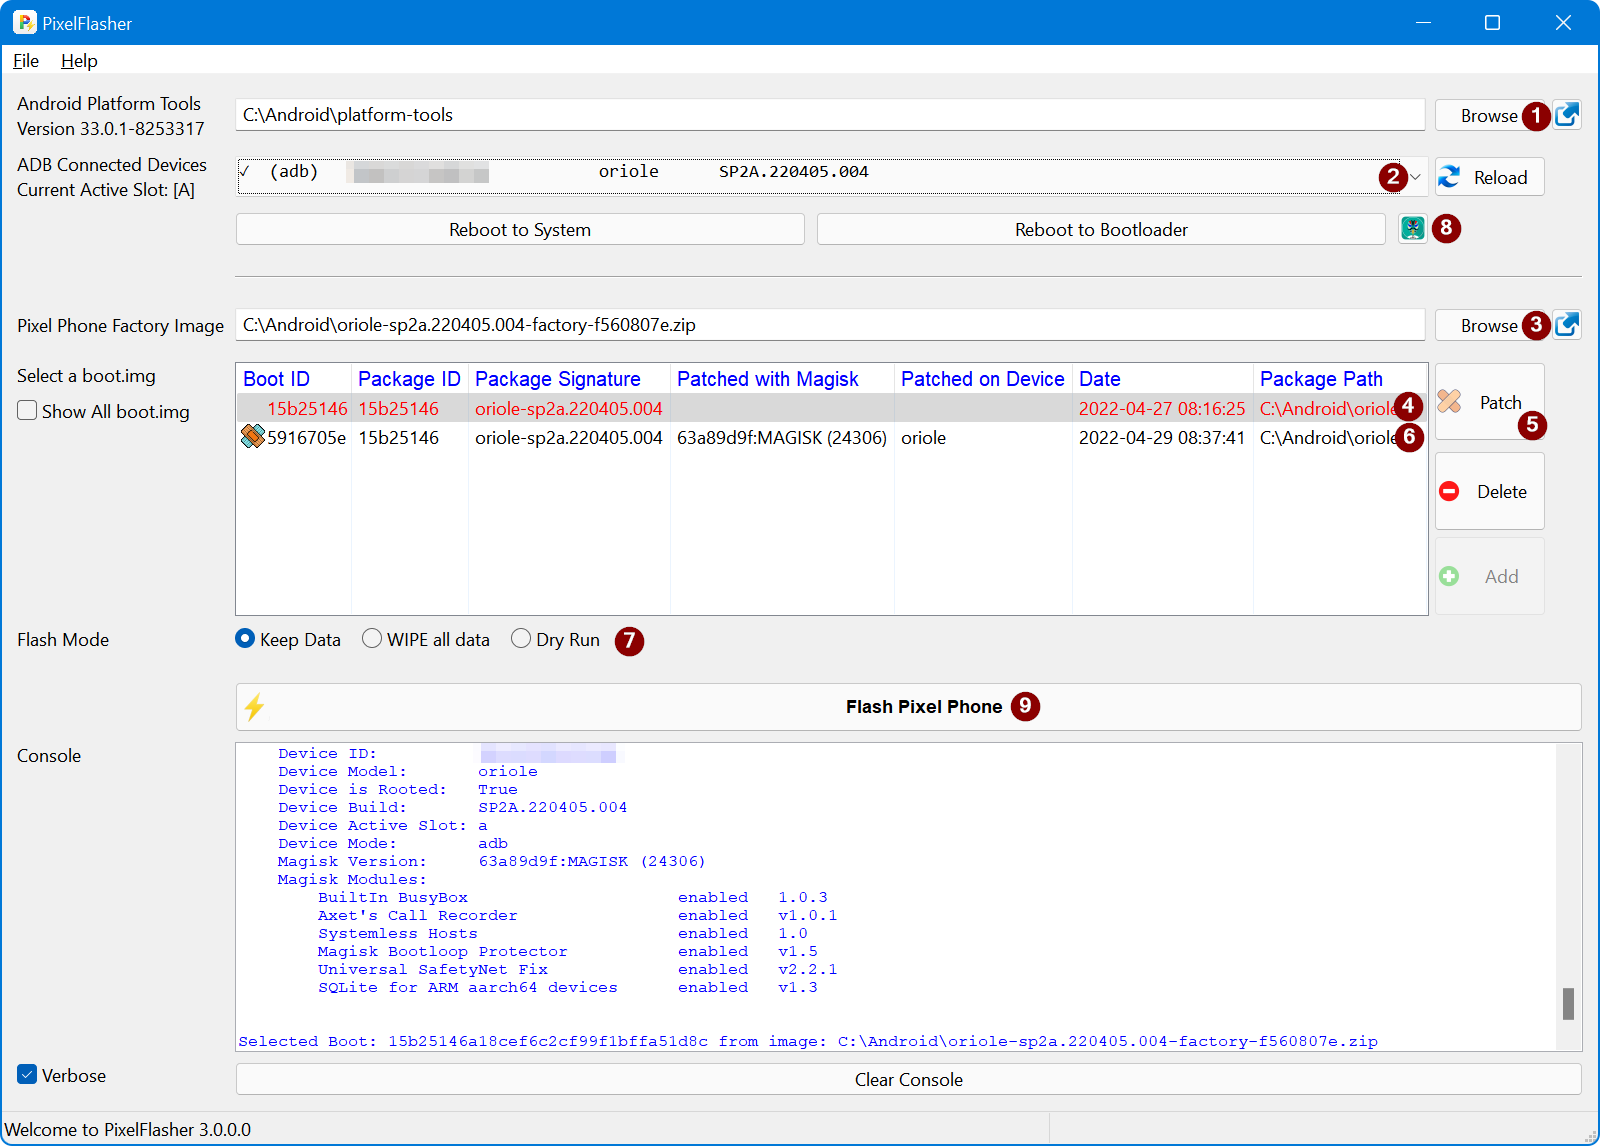
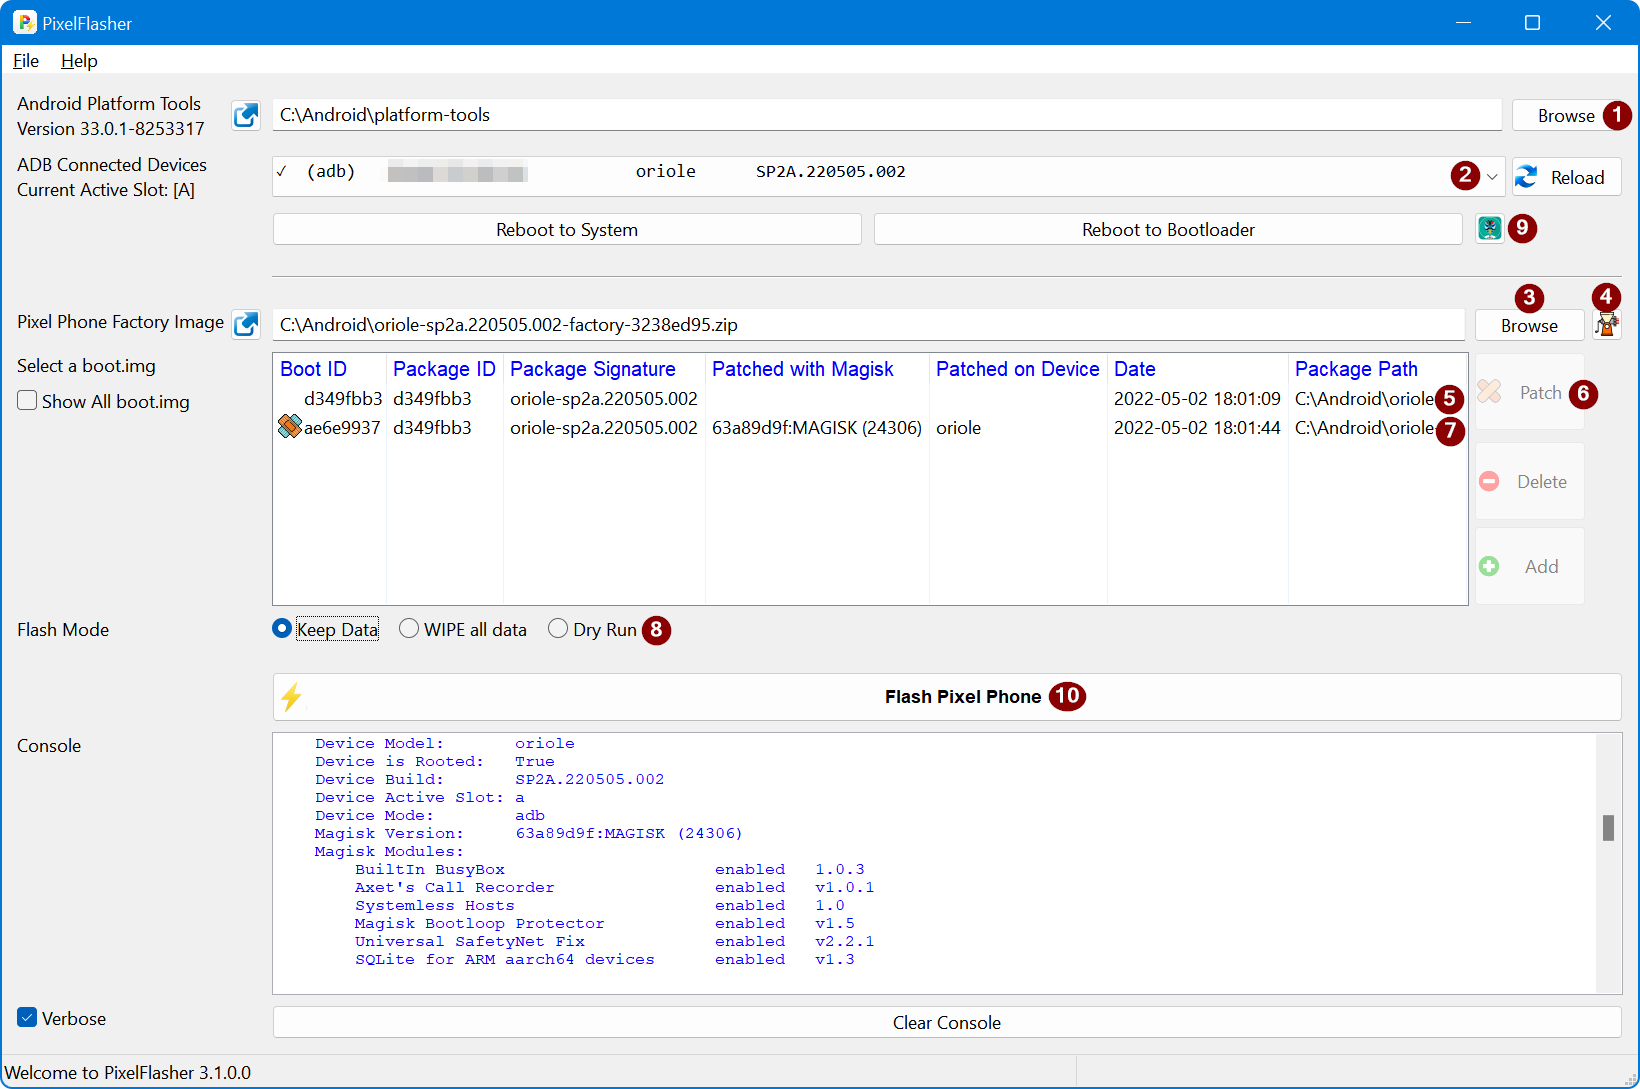
Update Readme

diff --git a/modules.py b/modules.py
@@ -1129,9 +1129,7 @@ def flash_phone(self):
         data += f"{add_echo}{get_fastboot()} -s {device.id} reboot bootloader\n"
         data += sleep_line
         data += f"{add_echo}{get_fastboot()} -s {device.id} {fastboot_options} flash boot pf_boot.img\n"
-
-        if self.config.flash_mode == 'dryRun':
-            data += f"{get_fastboot()} -s {device.id} reboot\n"
+        data += f"{get_fastboot()} -s {device.id} reboot\n"
 
         fin = open(dest, "wt")
         fin.write(data)

diff --git a/README.md b/README.md
@@ -153,16 +153,17 @@ The following information about the connected device is displayed.
     - (4th field) Device hardware.
     - (5th field) Current running firmware (in fastboot mode current firmware cannot be determined).
 3. Next select the factory image, the application will recognize the phone model from the image name.  
-PixelFlasher will extract `boot.img` file from the factory image and populate it in the list below (4).  
 You can download factory images by clicking the ![Image of link](/images/open-link-16.png) next to it.
-4. Select `boot.img` from the list, the selected `boot.img` can be patched (5), or flashed (9).
-5. Optional: Select this option if you want to patch the `boot.img` with Magisk. Magisk must already be installed on your phone.  
+4. Process the factory image.
+PixelFlasher will extract `boot.img` file from the factory image and populate it in the list below (4).  
+5. Select `boot.img` from the list, the selected `boot.img` can be patched (5), or flashed (9).
+6. Optional: Select this option if you want to patch the `boot.img` with Magisk. Magisk must already be installed on your phone.  
 This would be the typical choice for monthly updates.  
 This option will allow updating the phone without losing root (not even temporarily).  
 **Note:** See note above for granting root permissions to `shell`.  
 If the phone is already rooted, the whole process is without user interaction.  
 Otherwise PixelFlasher will launch Magisk on the phone and wait for the user to select stock `boot.img` which would already be transferred to the phone by the PixelFlasher and guide the user to make the proper choices in Magisk to create a patched `boot.img` before continuing for PixelFlasher to do the rest of the work.
-6. If you want to flash (9) a patched `boot.img` select the newly added entry.  
+7. If you want to flash (9) a patched `boot.img` select the newly added entry.  
 The following details are listed.  
     - ![Image of patched-boot](/images/patched-16.png) Indicates that the selection is patched.
     - Boot ID is (shortened for display only) md5 of `boot.img`
@@ -172,14 +173,14 @@ The following details are listed.
     - Patched on Device indicates the device model that performed the patching. You should always use patched images that match the model of the device that it will be flashed on.
     - Date is the either the date the `boot.img` was extracted, or the date it was patched.
     - Package Path indicates the source of the `boot.img` file.
-7. Select the Flash Mode
+8. Select the Flash Mode
     - **Keep Data**: In this mode `-w` flag is removed from the flash scripts so that data is not wiped. This is commonly known as `dirty flashing`
     - **WIPE all data**: As the name suggests, this will wipe your data, use it with caution! PixelFlasher will ask for confirmation during the flashing phase, if this mode is selected.
     - **Dry Run**: In this mode, the phone will reboot to bootloader, and then mimic the flash actions (i.e. reboot into bootloader) without actually flashing anything (it prints to the console the steps it would have performed if dry run was not chosen).
     This is handy for testing to check if the PixelFlasher properly is able to control fastboot commands.
-8. Optional: Open Magisk Modules Manager and disable (uncheck) modules known to cause issues during upgrades (the below list has never caused issues for me, so I keep them enabled YMMV).  
+9. Optional: Open Magisk Modules Manager and disable (uncheck) modules known to cause issues during upgrades (the below list has never caused issues for me, so I keep them enabled YMMV).  
 ![Image of PixelFlasher GUI](/images/magisk-modules-manager.png)
-9. **Flash Pixel Phone** This is the final step, to actually flash the phone in the selected `Flash Mode`.  
+10. **Flash Pixel Phone** This is the final step, to actually flash the phone in the selected `Flash Mode`.  
 **Note**: Unlike the previous versions of the PixelFlasher, all the options are dynamic, i.e. depending on what you select before clicking the Flash button, there is no more concept of prepared package.
 PixelFlasher will first present you the selected options and ask for your confirmation if you want to proceed with flashing.
 
